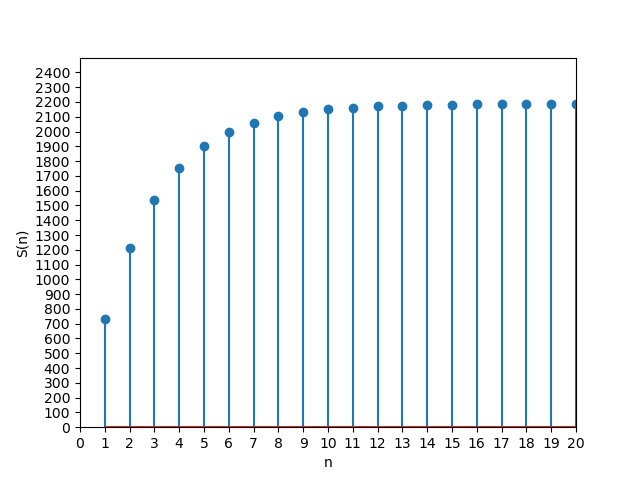
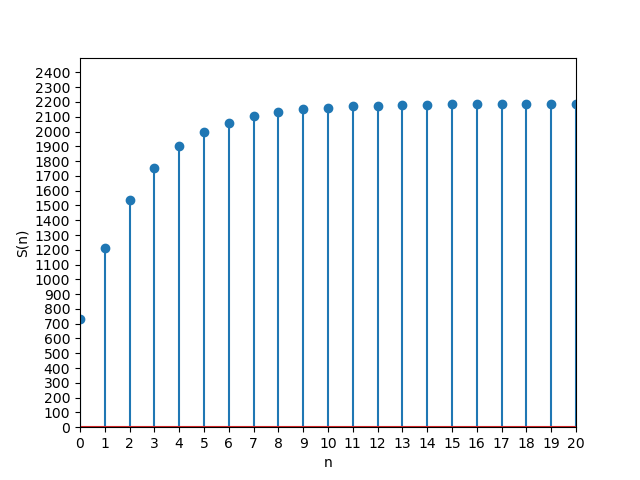
first commit

diff --git a/Assignment2/codes/graph1.py b/Assignment2/codes/graph1.py
@@ -1,12 +1,12 @@
 import matplotlib.pyplot as plt
 import numpy as np
-with open("values.dat") as file:
+with open(r"values.dat") as file:
     data_str = file.read()
 sequences = data_str.split('\n')
 sequences = np.array(sequences)[np.where(np.array(sequences) != "")].tolist()
 data_array = np.array(list(map(np.vectorize(float), map(lambda line: line.split('\t'), sequences))))
-x = data_array[1:, 0].astype(int)
-y = data_array[1:, 1]
+x = data_array[:, 0].astype(int)
+y = data_array[:, 1]
 plt.xlim(0,20)
 plt.ylim(0, 2500)
 plt.stem(x, y,markerfmt='o')

diff --git a/Assignment2/codes/graph1.c b/Assignment2/codes/graph1.c
@@ -13,10 +13,10 @@ int main() {
     int n ; // sum of n terms of series
     float s;
     
-    for(n=0;n<21;n++)
+    for(n=1;n<22;n++)
     {
         s = first_term * ((pow(common_ratio,n)-1)/(common_ratio - 1));
-        fprintf(file ,"%d \t %e \n",n , s);
+        fprintf(file ,"%d \t %e \n",n-1 , s);
     }
     fclose(file);
     return 0;
